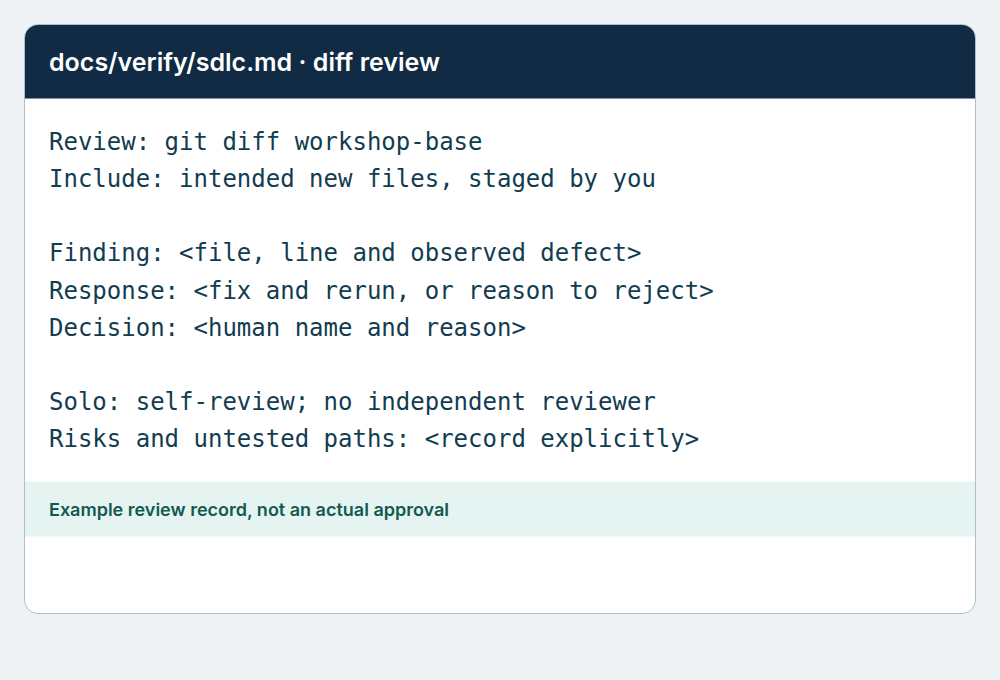
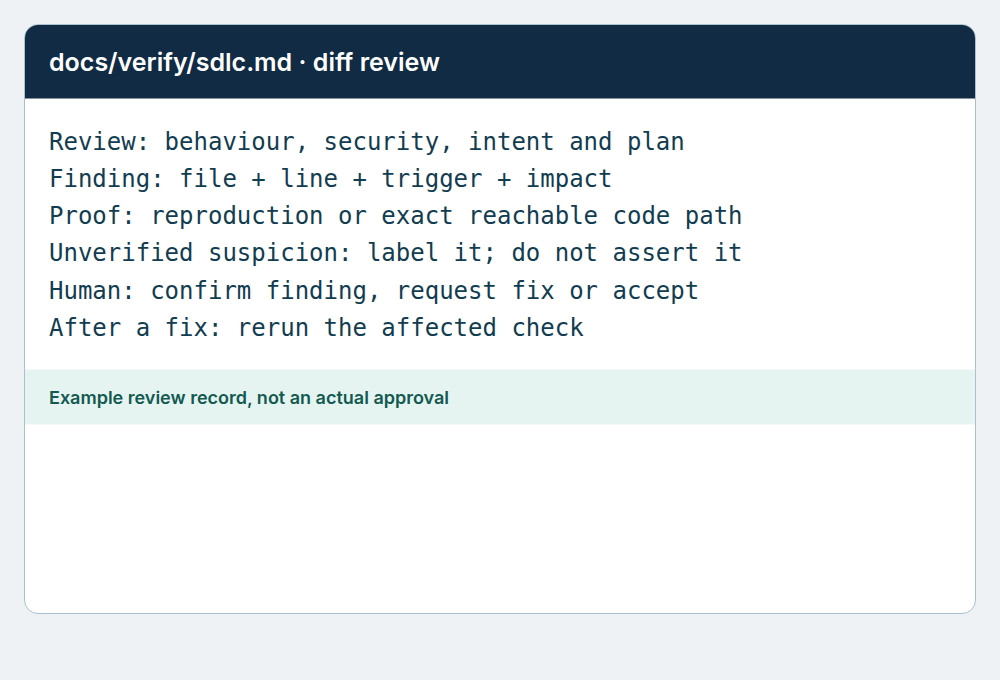
Update Workshop 5 AI-SDLC references

diff --git a/workshop5-slides.js b/workshop5-slides.js
@@ -55,7 +55,7 @@ window.SLIDES = [
     "title": "The lifecycle: AI assists, humans decide",
     "stateId": "1:The lifecycle: AI assists, humans decide",
     "kicker": "W5 · THE ROUTE WE WILL PRACTISE",
-    "subtitle": "Plan → Design → Build → Test → Release → Observe → Plan again.",
+    "subtitle": "Each step reads the previous result. A failed check sends you back.",
     "type": "concept",
     "cards": [],
     "visual": {
@@ -66,12 +66,16 @@ window.SLIDES = [
       }
     },
     "keyPoints": [
-      "AI assists each stage, not only coding.",
-      "Each stage leaves evidence for a human decision.",
-      "Repeat the loop when observations reveal a new requirement."
+      "Accepted intent guides the plan.",
+      "The plan guides the diff and its checks.",
+      "Observed results become the next intent."
     ],
-    "notes": "Use this one map throughout the day. Plan includes accepted intent; Design includes a reviewed plan; Test supplies evidence; Release includes diff review and a human decision; Observe supplies the next task. Each stage leaves evidence for a human decision. Teach detailed concepts beside the action that uses them, not as another theory block.",
-    "teachingPhase": "core"
+    "notes": "Use this one map throughout the day. Plan includes accepted intent; Design includes a reviewed plan; Test supplies evidence; Release includes diff review and a human decision; Observe supplies the next task. Each stage leaves evidence for a human decision. Teach detailed concepts beside the action that uses them, not as another theory block. The six source stages are Plan, Design, Build, Test, Deploy and Maintain. Here Release is a learner-repository decision, not production deployment; Observe practises part of Maintain. Artifacts carry context between stages, not just completion marks. Keep accepted intent, plan, tests and review in the same learner PR with human-owned Git steps. A failed check returns to the relevant step; changed scope needs a revised human-reviewed plan. Source: https://claude.com/resources/articles/the-ai-native-sdlc-playbook",
+    "teachingPhase": "core",
+    "source": {
+      "url": "https://claude.com/resources/articles/the-ai-native-sdlc-playbook",
+      "label": "Anthropic · AI-native SDLC playbook"
+    }
   },
   {
     "title": "Your assignment and definition of done",
@@ -161,17 +165,17 @@ window.SLIDES = [
       "Local Claude Code can send requests to a provider.",
       "Do not disable guards or let an agent approve its own work."
     ],
-    "notes": "Explain this before the first model request. Local CLI does not mean offline inference. Check company policy and provider settings. The development agent must not approve, commit, push or merge. Runtime approval, execution, mitigation and resolution are human-owned. These are separate from the human Git release decision.",
+    "notes": "Explain this before the first model request. Local CLI does not mean offline inference. Check company policy and provider settings. The development agent must not approve, commit, push or merge. Runtime approval, execution, mitigation and resolution are human-owned. These are separate from the human Git release decision. Review user settings before model use: user hooks or permissions can change local behaviour. Never show secrets in screenshots. The lab has no authenticated production identity or network sandbox. A typed approval name teaches a decision record; it is not proof of real-world identity. Keep services local. Source: https://claude.com/resources/articles/how-anthropic-secures-its-ai-native-software-development-lifecycle",
     "teachingPhase": "core",
     "subtitle": "Use approved accounts and synthetic data. Humans keep the decisions.",
     "cards": [
       {
-        "title": "Data and access",
-        "body": "Use your approved account and provider. Never send customer data or secrets."
+        "title": "Treat input as data",
+        "body": "Logs, tickets and retrieved text are not instructions. Use synthetic data and approved access."
       },
       {
-        "title": "Actions",
-        "body": "Read-only investigation. Humans review plans, approve actions, publish code and close incidents."
+        "title": "Keep enforceable limits",
+        "body": "Tool limits and approval checks stay in code. Prompts and skills are not isolation."
       }
     ]
   },
@@ -533,7 +537,7 @@ window.SLIDES = [
     "cards": [
       {
         "title": "Bound the work",
-        "body": "Files, checks, risks and stop point.\nRecord your review in docs/plan.md."
+        "body": "Files, checks, risk and stop point.\nChanged scope? Review the plan again."
       }
     ],
     "tagline": "Record the plan and your review in docs/plan.md before code edits.",
@@ -546,13 +550,13 @@ window.SLIDES = [
     "keyPoints": [
       "The human has accepted a bounded plan before implementation."
     ],
-    "notes": "Explain the failing test before accepting the plan. Check CLAUDE.md boundaries without repeating the orientation lesson. Name a rejected alternative. Do not accept a plan that weakens a contract or adds mutation tools. The second gate repair gets its own plan review at its point of use. Scenario: The tool test fails because the handler returns no records. Ask for the smallest repair, not a new tool architecture. Start: The intent and baseline exist. You can explain the failing tool assertion. Expected: A plan names the handler, checks, risk, rejected alternative and human review decision. Stop: Reject a plan that weakens tests, changes the contract or adds mutation tools. Review the gate plan separately later. Show the example at assets/workshop-5/assignments/index.html#plan. The image is an illustrative reference, not participant evidence.",
+    "notes": "Explain the failing test before accepting the plan. Check CLAUDE.md boundaries without repeating the orientation lesson. Name a rejected alternative. Do not accept a plan that weakens a contract or adds mutation tools. The second gate repair gets its own plan review at its point of use. Scenario: The tool test fails because the handler returns no records. Ask for the smallest repair, not a new tool architecture. Start: The intent and baseline exist. You can explain the failing tool assertion. Expected: A plan names the handler, checks, risk, rejected alternative and human review decision. Stop: Reject a plan that weakens tests, changes the contract or adds mutation tools. Review the gate plan separately later. Show the example at assets/workshop-5/assignments/index.html#plan. The image is an illustrative reference, not participant evidence. Use the accepted artifact, not a fresh summary from memory. Ask which input could be untrusted, what the code may access, and which test proves refusal. Do not add a planner or router subagent for these two repairs. The tool contract, deterministic chat routing and executor separation remain in code.",
     "teachingPhase": "core",
     "layout": "exercise",
     "stepsHeading": "Do this now:",
     "steps": [
       "Use the card prompt with intent, the existing spec and the failing tool test.",
-      "Check files, risks, checks and the stop point in docs/plan.md.",
+      "Trace input, allowed access and the refusal check. Record them in docs/plan.md.",
       "Accept the tool scope now. Review the gate plan before that separate repair."
     ],
     "expected": "The human has accepted a bounded plan before implementation.",
@@ -756,14 +760,14 @@ window.SLIDES = [
       "Save actual results and untested paths in docs/verify/sdlc.md.",
       "Passing checks are evidence, not approval."
     ],
-    "notes": "Run npx tsx --test test/workshop/executor.test.ts, npm run verify, npm run test:workshop and npm run test:hooks as listed on CARD.md. The approval gate no longer remains intentionally red. Preserve actual output and runtime blockers in docs/verify/sdlc.md. Never substitute a scripted bench for model evidence or weaken checks to advance. Ready for Core 3 means both repairs pass the required code checks. Scenario: Both repairs are now present. Check the combined change before a human reviews or publishes it. Start: The focused tool and gate tests pass. No runtime action is authorized by these results. Expected: The required commands exit successfully. The evidence record separates code checks from real-model observations. Stop: Keep failing output. Do not mark the change ready or replace model evidence with the scripted bench. Show the example at assets/workshop-5/assignments/index.html#verification. The image is an illustrative reference, not participant evidence.",
+    "notes": "Run npx tsx --test test/workshop/executor.test.ts, npm run verify, npm run test:workshop and npm run test:hooks as listed on CARD.md. The approval gate no longer remains intentionally red. Preserve actual output and runtime blockers in docs/verify/sdlc.md. Never substitute a scripted bench for model evidence or weaken checks to advance. Ready for Core 3 means both repairs pass the required code checks. Scenario: Both repairs are now present. Check the combined change before a human reviews or publishes it. Start: The focused tool and gate tests pass. No runtime action is authorized by these results. Expected: The required commands exit successfully. The evidence record separates code checks from real-model observations. Stop: Keep failing output. Do not mark the change ready or replace model evidence with the scripted bench. Show the example at assets/workshop-5/assignments/index.html#verification. The image is an illustrative reference, not participant evidence. Claude may rerun and fix a failing check within the accepted scope before human review. Keep the failing result and the fix; never remove an assertion to pass. Stop and revise the plan if the scope changes. Compare the complete task, not only a polished final answer. One successful live run does not establish model reliability or a speed improvement.",
     "teachingPhase": "core",
     "layout": "exercise",
     "stepsHeading": "Do this now:",
     "steps": [
       "Run the focused executor test and npm run verify.",
       "Run npm run test:workshop and npm run test:hooks.",
-      "Record actual results and limits in docs/verify/sdlc.md."
+      "Map each accepted check to its actual result and limits in docs/verify/sdlc.md."
     ],
     "expected": "Both repairs pass the required code checks before Core 3.",
     "repo": {
@@ -798,14 +802,14 @@ window.SLIDES = [
     "layout": "exercise",
     "kicker": "W5 · CORE 3 · REVIEW · YOUR TURN",
     "steps": [
-      "Check git status; inspect and stage intended new files by exact path yourself.",
-      "Use the card prompt to review git diff workshop-base against intent, plan and REVIEW.md.",
-      "Verify findings yourself. Record the decision, risks and untested paths."
+      "Inspect the actual diff and intended new files against intent and plan.",
+      "Check behaviour and security. Require a reproduction or exact code path for findings.",
+      "Make the human review decision; rerun affected checks after fixes."
     ],
     "cards": [
       {
-        "title": "Review inputs",
-        "body": "intent.md\ndocs/plan.md\nREVIEW.md\ndocs/verify/sdlc.md"
+        "title": "A useful finding",
+        "body": "File and line\nTrigger and impact\nReproduction or code path\nHuman decision"
       }
     ],
     "visual": {
@@ -818,7 +822,7 @@ window.SLIDES = [
       "url": "https://github.com/RyanLisse/sre-oncall-agent/blob/main/CARD.md",
       "label": "Participant card · exact steps and checks"
     },
-    "notes": "Untracked files are absent from git diff workshop-base. Inspect them first and never stage secrets. The coding agent identifies findings; a human judges them. Do not rerun every check just to repeat the preceding slide. Rerun affected checks when review leads to a fix. Solo review is a separate pass and an explicit limitation. Scenario: Tests pass, but the change might still exceed the plan. Review the actual diff and verify Claude's findings yourself. Start: Both repairs and required checks are complete. Inspect untracked files before reviewing the diff. Expected: A meaningful diff against workshop-base and a human decision linked to findings, risks and unchecked paths. Stop: An empty repair diff is not proof. Resolve findings and rerun affected checks before release. Show the example at assets/workshop-5/assignments/index.html#diff-review. The image is an illustrative reference, not participant evidence.",
+    "notes": "Untracked files are absent from git diff workshop-base. Inspect them first and never stage secrets. The coding agent identifies findings; a human judges them. Do not rerun every check just to repeat the preceding slide. Rerun affected checks when review leads to a fix. Solo review is a separate pass and an explicit limitation. Scenario: Tests pass, but the change might still exceed the plan. Review the actual diff and verify Claude's findings yourself. Start: Both repairs and required checks are complete. Inspect untracked files before reviewing the diff. Expected: A meaningful diff against workshop-base and a human decision linked to findings, risks and unchecked paths. Stop: An empty repair diff is not proof. Resolve findings and rerun affected checks before release. Show the example at assets/workshop-5/assignments/index.html#diff-review. The image is an illustrative reference, not participant evidence. REVIEW.md defines the passes. Check untrusted input, dependency or settings changes, secrets and permission expansion. Review the approval gate directly even if tests pass. A fresh-context verifier can reduce shared assumptions, but its report is not independent evidence by itself. It has no approval authority. Source: https://claude.com/resources/articles/how-anthropic-secures-its-ai-native-software-development-lifecycle",
     "teachingPhase": "core",
     "expected": "The human has accepted the diff or requested a specific fix with fresh checks.",
     "stepsHeading": "Do this now:",
@@ -935,13 +939,13 @@ window.SLIDES = [
     "kicker": "W5 · CORE 3 · PLAN AGAIN · YOUR TURN",
     "steps": [
       "Record the observed runtime result or blocker.",
-      "Use the card prompt to propose one next change with an acceptance check.",
+      "Propose one next change, an acceptance check and where the lesson belongs.",
       "Review the proposal yourself; distinguish facts from hypotheses."
     ],
     "cards": [
       {
         "title": "Ground the next task",
-        "body": "Observed result\nOne change\nAcceptance check\nHuman review"
+        "body": "Observed result\nOne next intent\nRegression check\nReviewed rule or instruction"
       }
     ],
     "visual": {
@@ -954,7 +958,7 @@ window.SLIDES = [
       "url": "https://github.com/RyanLisse/sre-oncall-agent/blob/main/CARD.md",
       "label": "Participant card · exact steps and checks"
     },
-    "notes": "Do not invent a successful run or close an unresolved incident. A failed recovery check, missing observation or review finding can ground the next task. Proposing and reviewing it is required; implementing it is optional. Keep the next task out of this change unless the scope is explicitly revised. Scenario: Recovery may fail even after a successful execution. Use the failed measurement or another observed limit to propose one next change. Start: The runtime outcome or blocker is recorded. Keep an unresolved incident open. Expected: One proposed task has evidence, an observable acceptance check and a human review decision. Stop: Do not invent successful recovery or implement the next task without a new accepted scope. Show the example at assets/workshop-5/assignments/index.html#next-task. The image is an illustrative reference, not participant evidence.",
+    "notes": "Do not invent a successful run or close an unresolved incident. A failed recovery check, missing observation or review finding can ground the next task. Proposing and reviewing it is required; implementing it is optional. Keep the next task out of this change unless the scope is explicitly revised. Scenario: Recovery may fail even after a successful execution. Use the failed measurement or another observed limit to propose one next change. Start: The runtime outcome or blocker is recorded. Keep an unresolved incident open. Expected: One proposed task has evidence, an observable acceptance check and a human review decision. Stop: Do not invent successful recovery or implement the next task without a new accepted scope. Show the example at assets/workshop-5/assignments/index.html#next-task. The image is an illustrative reference, not participant evidence. Ask whether a confirmed lesson needs a regression test, a code boundary, or a reviewed CLAUDE.md/skill update. Instructions help prevent recurrence but cannot replace a test or access control. Propose the destination now; implementing the next task remains optional. Record one bottleneck or rework point you actually observed, not an invented productivity gain.",
     "teachingPhase": "core",
     "expected": "docs/verify/sdlc.md contains one evidence-based next task and your review decision.",
     "stepsHeading": "Do this now:",
@@ -1030,28 +1034,28 @@ window.SLIDES = [
     "title": "skills",
     "stateId": "31:skills",
     "kicker": "W5 · REFERENCE ONLY · NOT PART OF THE ASSIGNMENT",
-    "subtitle": "A method that Claude loads when a step needs it.",
+    "subtitle": "Load a reviewed procedure when needed, not every instruction at startup.",
     "type": "concept",
     "cards": [
       {
-        "title": "Policy",
-        "body": "incident-triage/SKILL.md. The policy owner signs off, as with code."
+        "title": "Load on demand",
+        "body": "A short description selects a relevant skill. Its detailed procedure then enters context."
       },
       {
-        "title": "It says",
-        "body": "How to triage\nWhat to cite\nWhat never to do"
+        "title": "Keep hard limits in code",
+        "body": "Skills guide work. Tool permissions, validation and approval gates enforce boundaries."
       }
     ],
     "visual": {
-      "mdfile": 1,
-      "mdName": "incident-triage/SKILL.md"
+      "bot": "think",
+      "place": "beside"
     },
     "keyPoints": [
       "A skill is a versioned file.",
       "A skill advises. It does not enforce.",
       "Review it before you install it."
     ],
-    "notes": "Reference only. Open .claude/skills/incident-triage/SKILL.md when participants want a reusable method. A skill advises; it does not enforce. Review the file and policy before installation. No extra skill is required to finish the assignment.",
+    "notes": "Reference only. Open .claude/skills/incident-triage/SKILL.md when participants want a reusable method. A skill advises; it does not enforce. Review the file and policy before installation. No extra skill is required to finish the assignment. Progressive disclosure keeps the main loop focused. It is not permission to trust a downloaded skill. Existing SDK calls load user settings only; do not imply they automatically load this repository's project skills. Sources: https://claude.com/resources/articles/building-agents-when-to-fold-subagents-into-your-main-agent-loop",
     "teachingPhase": "optional"
   },
   {
@@ -1131,36 +1135,37 @@ window.SLIDES = [
     "subtitle": "A hook runs on an agent event. It can block an action; it cannot approve one."
   },
   {
-    "title": "subagents",
+    "title": "One loop first; subagents for a reason",
     "stateId": "34:subagents",
     "kicker": "W5 · REFERENCE ONLY · NOT PART OF THE ASSIGNMENT",
-    "subtitle": "A helper session with its own context. Delegate the work, never the acceptance.",
+    "subtitle": "Separate work by context or permissions, not by job title.",
     "type": "concept",
     "cards": [
       {
-        "title": "Investigator",
-        "body": ".claude/agents/oncall-investigator.md. Own context. It only reports."
+        "title": "Stay in one loop",
+        "body": "The repair needs the same evidence and plan. Add a reviewed skill only when needed."
       },
       {
-        "title": "Never",
-        "body": "A subagent does not accept a plan. It approves nothing."
+        "title": "Use a separate context",
+        "body": "Independent checks, parallel research, or measured context overload. Return evidence, not confidence."
       }
     ],
-    "tagline": "Delegate the work. Never the acceptance.",
+    "tagline": "Compare task success, missed evidence, time and cost. Never collapse a safety boundary.",
     "visual": {
-      "diagram": {
-        "id": "subagents",
-        "title": "Separate verifier context",
-        "caption": "A verifier checks the diagnosis in a separate context. A human accepts the result."
-      }
+      "bot": "point",
+      "place": "beside"
     },
     "keyPoints": [
-      "Own context.",
-      "The verifier only reports.",
-      "A human accepts."
+      "Start with the simplest design that works.",
+      "A verifier reports; humans accept.",
+      "The executor keeps its separate permission boundary."
     ],
-    "notes": "Reference only. Explain separate context and a reporting-only result. A verifier is not automatically independent evidence: inspect its inputs and checks. A subagent never accepts a plan or approves a release.",
-    "teachingPhase": "optional"
+    "notes": "Reference only, not a third repair. The article argues against unnecessary planner, router and domain subagents, not against every subagent. Fresh-context verification, independent parallel tasks, conflicting instructions, permission separation or measured context degradation can justify one. Keep raw evidence links in its compact result and compare end-to-end task completion, safety failures, latency and cost on the same cases before adopting an architecture. No migration or speed claim is proved by this workshop. Claude Code and the runtime SRE agent are two different applications, not redundant subagents. Do not fold the executor, deterministic chat grammar or approval checks into a model prompt. The security article uses scoped reviewers for a different purpose; this is compatible with a simple runtime loop. A new context is not a new authenticated identity or a guarantee of unbiased evidence. Sources: https://claude.com/resources/articles/building-agents-when-to-fold-subagents-into-your-main-agent-loop and https://claude.com/resources/articles/how-anthropic-secures-its-ai-native-software-development-lifecycle",
+    "teachingPhase": "optional",
+    "source": {
+      "url": "https://claude.com/resources/articles/building-agents-when-to-fold-subagents-into-your-main-agent-loop",
+      "label": "Anthropic · When to fold subagents into one loop"
+    }
   },
   {
     "title": "Extend the bench without weakening it",

diff --git a/assets/workshop-5/assignments/index.html b/assets/workshop-5/assignments/index.html
@@ -63,15 +63,12 @@ $ git show --stat workshop-base
  src/executor.ts
 
 The human runs Git. Claude does not commit.</pre><footer>Illustrative output; commit ids and counts vary</footer></div></article>
-<article id="plan"><div class="intro"><p class="phase">Core 2 · Design</p><h2>Review the tool plan before implementation</h2><p class="scenario">The tool test fails because the handler returns no records. Ask for the smallest repair, not a new tool architecture.</p></div><div class="details"><section><h3>Start here</h3><p>The intent and baseline exist. You can explain the failing tool assertion.</p></section><section><h3>Look for this result</h3><p>A plan names the handler, checks, risk, rejected alternative and human review decision.</p></section><section class="stop"><h3>Stop when</h3><p>Reject a plan that weakens tests, changes the contract or adds mutation tools. Review the gate plan separately later.</p></section></div><div class="sample"><div class="sample-head">docs/plan.md · tool plan</div><pre>Scope: src/tools.ts · list_deploys handler
-Keep: MCP registration and read-only boundary
-
-Check: focused tool test, typecheck, bench
-Risk: wrong binding still returns no records
-Reject: adding a second tool registration
-
-Human decision: &lt;name and accepted scope&gt;
-Stop: after checks, before runtime action</pre><footer>Example document, not an approved plan</footer></div></article>
+<article id="plan"><div class="intro"><p class="phase">Core 2 · Design</p><h2>Review the tool plan before implementation</h2><p class="scenario">The tool test fails because the handler returns no records. Ask for the smallest repair, not a new tool architecture.</p></div><div class="details"><section><h3>Start here</h3><p>The intent and baseline exist. You can explain the failing tool assertion.</p></section><section><h3>Look for this result</h3><p>A plan names the handler, checks, risk, rejected alternative and human review decision.</p></section><section class="stop"><h3>Stop when</h3><p>Reject a plan that weakens tests, changes the contract or adds mutation tools. Review the gate plan separately later.</p></section></div><div class="sample"><div class="sample-head">docs/plan.md · tool plan</div><pre>Input: accepted intent + failing tools test
+Change: restore the existing read-only handler
+Risk: inventing data or expanding tool access
+Refusal check: missing data stays explicit
+Loop: implement, run focused test, fix in scope
+Stop: changed scope needs human plan review</pre><footer>Example document, not an approved plan</footer></div></article>
 <article id="tool-test"><div class="intro"><p class="phase">Core 2 · Build and test</p><h2>Prove the deployment tool repair</h2><p class="scenario">The on-call engineer needs the deployment records that the starter hides. Repair the handler without changing its registration.</p></div><div class="details"><section><h3>Start here</h3><p>You have accepted the tool plan. The focused tools test is red.</p></section><section><h3>Look for this result</h3><p>Both tool assertions pass after repair. The gate exercise is still unfinished, so this is not release-ready.</p></section><section class="stop"><h3>Stop when</h3><p>If the handler still returns [], inspect the binding. Do not weaken the test or count a solved checkpoint as your work.</p></section></div><div class="sample"><div class="sample-head">Terminal · tool-test result</div><pre>npx tsx --test test/workshop/tools.test.ts
 
 Before repair
@@ -109,15 +106,12 @@ npm run test:hooks: &lt;actual result&gt;
 Bench: scripted fixed-scenario checks
 Live trace: &lt;real model result or blocker&gt;
 Untested paths: &lt;what was not checked&gt;</pre><footer>Example form; replace each field with actual output</footer></div></article>
-<article id="diff-review"><div class="intro"><p class="phase">Core 3 · Review</p><h2>Judge the code against the intent</h2><p class="scenario">Tests pass, but the change might still exceed the plan. Review the actual diff and verify Claude&#39;s findings yourself.</p></div><div class="details"><section><h3>Start here</h3><p>Both repairs and required checks are complete. Inspect untracked files before reviewing the diff.</p></section><section><h3>Look for this result</h3><p>A meaningful diff against workshop-base and a human decision linked to findings, risks and unchecked paths.</p></section><section class="stop"><h3>Stop when</h3><p>An empty repair diff is not proof. Resolve findings and rerun affected checks before release.</p></section></div><div class="sample"><div class="sample-head">docs/verify/sdlc.md · diff review</div><pre>Review: git diff workshop-base
-Include: intended new files, staged by you
-
-Finding: &lt;file, line and observed defect&gt;
-Response: &lt;fix and rerun, or reason to reject&gt;
-Decision: &lt;human name and reason&gt;
-
-Solo: self-review; no independent reviewer
-Risks and untested paths: &lt;record explicitly&gt;</pre><footer>Example review record, not an actual approval</footer></div></article>
+<article id="diff-review"><div class="intro"><p class="phase">Core 3 · Review</p><h2>Judge the code against the intent</h2><p class="scenario">Tests pass, but the change might still exceed the plan. Review the actual diff and verify Claude&#39;s findings yourself.</p></div><div class="details"><section><h3>Start here</h3><p>Both repairs and required checks are complete. Inspect untracked files before reviewing the diff.</p></section><section><h3>Look for this result</h3><p>A meaningful diff against workshop-base and a human decision linked to findings, risks and unchecked paths.</p></section><section class="stop"><h3>Stop when</h3><p>An empty repair diff is not proof. Resolve findings and rerun affected checks before release.</p></section></div><div class="sample"><div class="sample-head">docs/verify/sdlc.md · diff review</div><pre>Review: behaviour, security, intent and plan
+Finding: file + line + trigger + impact
+Proof: reproduction or exact reachable code path
+Unverified suspicion: label it; do not assert it
+Human: confirm finding, request fix or accept
+After a fix: rerun the affected check</pre><footer>Example review record, not an actual approval</footer></div></article>
 <article id="release"><div class="intro"><p class="phase">Core 3 · Release decision</p><h2>Publish only with the required checks</h2><p class="scenario">You have a reviewed change. A missing reviewer or repository permission is a release blocker, not permission to bypass the gate.</p></div><div class="details"><section><h3>Start here</h3><p>The human has reviewed the diff and current evidence. Claude may prepare PR text, not publish it.</p></section><section><h3>Look for this result</h3><p>A learner-repo PR from fix/w5-core into workshop-base, or an explicit RELEASE BLOCKED record with a next action.</p></section><section class="stop"><h3>Stop when</h3><p>Do not push to the upstream training repo or bypass required review. A local reload is not a production release.</p></section></div><div class="sample"><div class="sample-head">docs/verify/sdlc.md · release decision</div><pre>Decision: RELEASE BLOCKED
 Reason: required independent reviewer missing
 
@@ -127,15 +121,12 @@ Next action: request a human reviewer
 Merge commit: none
 
 Local observation may continue as a test.</pre><footer>Example blocked outcome, not a real PR or merge</footer></div></article>
-<article id="next-task"><div class="intro"><p class="phase">Core 3 · Observe and plan</p><h2>Use the actual result for the next task</h2><p class="scenario">Recovery may fail even after a successful execution. Use the failed measurement or another observed limit to propose one next change.</p></div><div class="details"><section><h3>Start here</h3><p>The runtime outcome or blocker is recorded. Keep an unresolved incident open.</p></section><section><h3>Look for this result</h3><p>One proposed task has evidence, an observable acceptance check and a human review decision.</p></section><section class="stop"><h3>Stop when</h3><p>Do not invent successful recovery or implement the next task without a new accepted scope.</p></section></div><div class="sample"><div class="sample-head">docs/verify/sdlc.md · next iteration</div><pre>Observation: &lt;failed check and measured value&gt;
-Hypothesis: &lt;possible cause, not established&gt;
-
-Next task: expose the missing signal
-Acceptance: &lt;test proving the signal is shown&gt;
-Human review: &lt;name, decision and reason&gt;
-
-No observation? Record the blocker instead.
-Keep the incident open if recovery is unknown.</pre><footer>Conditional example; use only if you observed this gap</footer></div></article>
+<article id="next-task"><div class="intro"><p class="phase">Core 3 · Observe and plan</p><h2>Use the actual result for the next task</h2><p class="scenario">Recovery may fail even after a successful execution. Use the failed measurement or another observed limit to propose one next change.</p></div><div class="details"><section><h3>Start here</h3><p>The runtime outcome or blocker is recorded. Keep an unresolved incident open.</p></section><section><h3>Look for this result</h3><p>One proposed task has evidence, an observable acceptance check and a human review decision.</p></section><section class="stop"><h3>Stop when</h3><p>Do not invent successful recovery or implement the next task without a new accepted scope.</p></section></div><div class="sample"><div class="sample-head">docs/verify/sdlc.md · next iteration</div><pre>If you observed a missing evidence reference:
+- Preserve the actual trace and failed check.
+- Propose one next intent and acceptance check.
+- Name the regression test that detects it.
+- Propose a reviewed instruction update if useful.
+Human reviews; no new implementation yet.</pre><footer>Conditional example; use only if you observed this gap</footer></div></article>
 <article id="solo"><div class="intro"><p class="phase">Continue solo</p><h2>Resume without inventing completion</h2><p class="scenario">You continue without a facilitator. Preserve your own code and evidence, and name the limits of self-review.</p></div><div class="details"><section><h3>Start here</h3><p>Read SOLO.md and locate the last step you actually verified.</p></section><section><h3>Look for this result</h3><p>A resume note names the last verified step, next check and any borrowed checkpoint code.</p></section><section class="stop"><h3>Stop when</h3><p>Do not overwrite your work or copy another run&#39;s approvals. A required independent reviewer still blocks release.</p></section></div><div class="sample"><div class="sample-head">Resume note · record through progress:note</div><pre>Last verified step: &lt;card step and evidence&gt;
 Next check: &lt;exact command or observation&gt;
 Review mode: self-review; no independent reviewer

diff --git a/workshop5.html b/workshop5.html
@@ -1,5 +1,5 @@
 <!doctype html>
-<html lang="en"><head><meta charset="utf-8"><meta http-equiv="Cache-Control" content="no-cache, no-store, must-revalidate"><meta http-equiv="Pragma" content="no-cache"><meta http-equiv="Expires" content="0"><meta name="viewport" content="width=device-width,initial-scale=1"><meta name="theme-color" content="#06111e"><title>Workshop 5 · AI-native SDLC · Aetherlink classroom</title><meta name="description" content="AI-native SDLC workshop: specify, plan, build, test, review and release a change with Claude Code. Use a local shop to observe the result and plan the next iteration."><link rel="icon" href="data:,"><link rel="stylesheet" href="styles.css?v=100"><script>window.PRESENTER_PAGE = "workshop5-presenter.html";</script><script src="workshop5-slides.js?v=110" defer></script><script src="workshop5-diagrams.js?v=107" defer></script><script src="demo-fallback.js?v=93" defer></script><script src="timers.js?v=94" defer></script><script src="sessions.js?v=4" defer></script><script src="app.js?v=102" defer></script></head>
+<html lang="en"><head><meta charset="utf-8"><meta http-equiv="Cache-Control" content="no-cache, no-store, must-revalidate"><meta http-equiv="Pragma" content="no-cache"><meta http-equiv="Expires" content="0"><meta name="viewport" content="width=device-width,initial-scale=1"><meta name="theme-color" content="#06111e"><title>Workshop 5 · AI-native SDLC · Aetherlink classroom</title><meta name="description" content="AI-native SDLC workshop: specify, plan, build, test, review and release a change with Claude Code. Use a local shop to observe the result and plan the next iteration."><link rel="icon" href="data:,"><link rel="stylesheet" href="styles.css?v=100"><script>window.PRESENTER_PAGE = "workshop5-presenter.html";</script><script src="workshop5-slides.js?v=111" defer></script><script src="workshop5-diagrams.js?v=107" defer></script><script src="demo-fallback.js?v=93" defer></script><script src="timers.js?v=94" defer></script><script src="sessions.js?v=4" defer></script><script src="app.js?v=102" defer></script></head>
 <body><a class="skip" href="#stage">Skip to presentation</a>
 <header class="toolbar">
   <a class="brand" href="#1" aria-label="Aetherlink, slide 1"><img class="brand-mark" src="assets/aetherlink-mark.png" alt="" width="44" height="44">AETHER<span>LINK</span><small>WORLDLINE · CLASSROOM</small></a>

diff --git a/workshop5-presenter.html b/workshop5-presenter.html
@@ -93,7 +93,7 @@
       </div>
     </div>
   </div>
-  <script>window.DECK_PAGE = "workshop5.html";</script><script src="workshop5-slides.js?v=110" defer></script>
+  <script>window.DECK_PAGE = "workshop5.html";</script><script src="workshop5-slides.js?v=111" defer></script>
   <script src="timers.js?v=94" defer></script>
   <script src="presenter.js?v=95" defer></script>
 </body></html>
